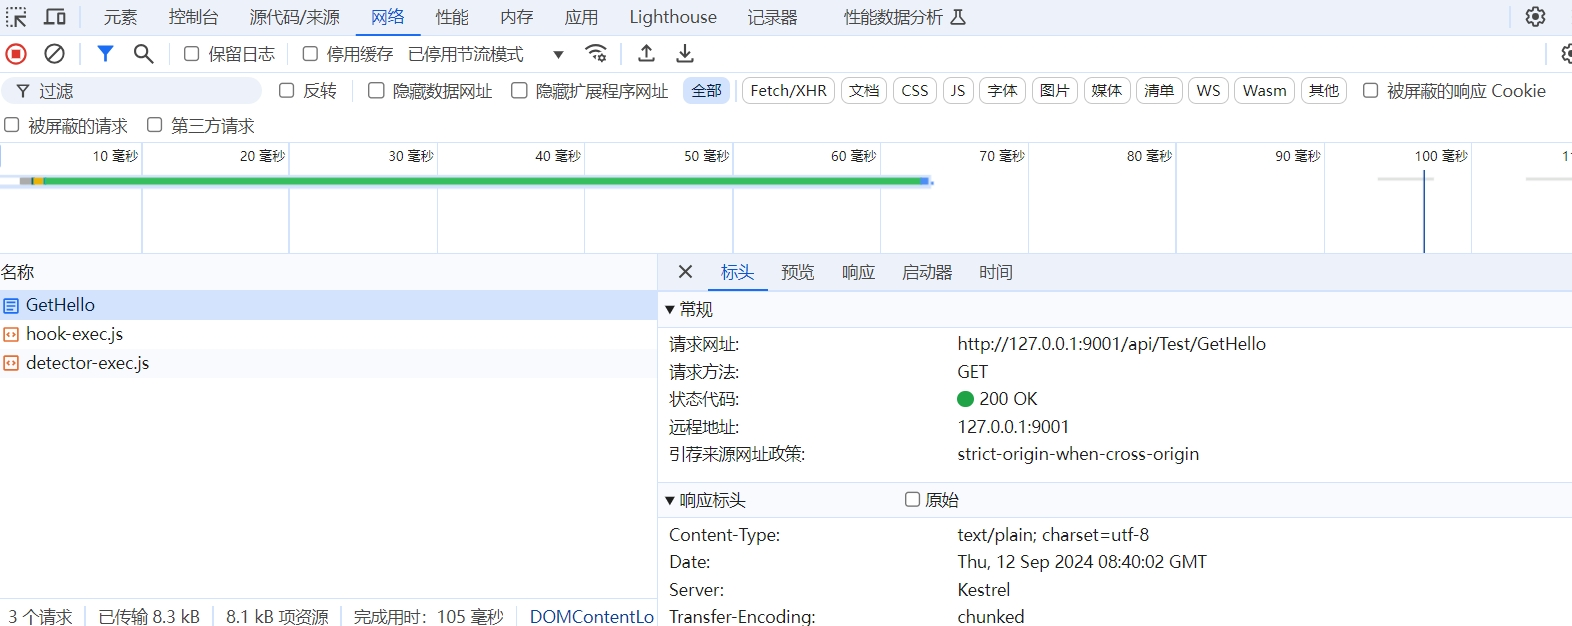
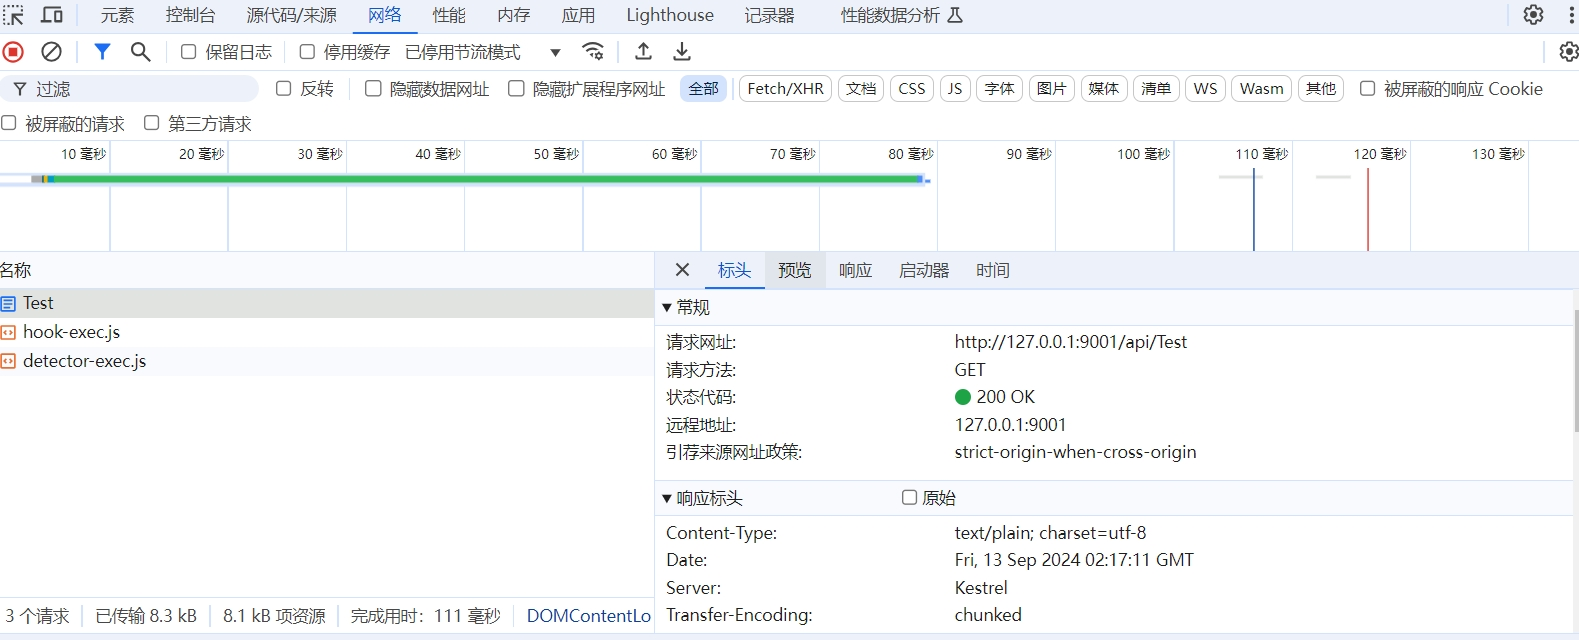
Controller1

diff --git a/docs/c-sharp/web/3.Controller.md b/docs/c-sharp/web/3.Controller.md
@@ -1,8 +1,26 @@
 # Controller
+在 ASP.NET Core 中，控制器（Controller）是处理 HTTP 请求的核心部分。
 
-## 创建Controller并调用
-控制器类通常放在 Controllers 文件夹中。你可以手动创建这个文件夹，并在其中创建控制器类。
+根据应用的类型和需求，ASP.NET Core 提供了几种常见的控制器类型，主要用于 Web API 和 MVC（Model-View-Controller）模式。
 
+以下是 ASP.NET Core 中常见的控制器类型：
+
+- API 控制器（Web API Controllers）
+- MVC 控制器（MVC Controllers）
+- Razor Pages 控制器
+
+## API 控制器（Web API Controllers） 
+
+API 控制器主要用于处理 Web API 请求，适合构建 RESTful API 或者其他 HTTP 服务。
+
+通常，API 控制器继承自 ControllerBase 类，并使用 [ApiController] 特性来启用一些自动化的行为（如自动模型验证、错误处理等）。
+
+关键特点:
+- 继承自 ControllerBase 类。
+- 返回 JSON 或其他类型的对象响应。
+- 使用 [ApiController] 特性来简化 API 开发。
+
+### 创建Controller并调用
 在文件夹中右击，新建项，选择API控制器：
 ![图片](pictures/APIController.png)
 
@@ -34,29 +52,332 @@ namespace WebApplicationDemo.Controllers
     public class TestController : ControllerBase
     {
         [HttpGet]
-        public IActionResult GetHello()
+        public IActionResult GetTest()
         {
-            return Ok("Hello, World!");
+            return Ok("Get Test!");
         }
     }
 }
 ```
 
-启动程序。浏览器输入`http://127.0.0.1:9001/api/Test/GetHello`
+启动程序。浏览器输入`http://127.0.0.1:9001/api/Test`
 ![图片](pictures/调用Api_1.png)
 
 ![图片](pictures/调用Api_2.png)
 
-## ControllerBase 
 
-## ApiController属性
+### ControllerBase 基类
+ControllerBase 类的主要功能是支持返回数据的 API 控制器。
 
-## Route属性
+它不提供视图的呈现能力，这与 Controller 类不同，后者可以处理视图和 API 两种类型的响应。
 
-## Http请求方式
+ControllerBase 专注于返回 JSON、XML 等格式的数据响应，适合构建纯 API 服务。
 
-### Http请求类型
+#### 常用属性
 
-### 参数验证
+##### HttpContext
+HttpContext 是 ASP.NET Core 中用于封装 HTTP 请求和响应信息的对象，ControllerBase 类通过 HttpContext 属性提供对该对象的访问。
 
-## 异步接口
+通过 HttpContext，你可以获取当前请求的各种上下文信息，比如请求头、请求体、查询参数、用户身份、会话等，进行更高级的操作。
+
+- HttpContext.Request
+
+示例
+``` C#
+//Headers: 获取请求头。
+var userAgent = HttpContext.Request.Headers["User-Agent"].ToString();
+// Query: 获取查询参数。
+var queryParam = HttpContext.Request.Query["id"].ToString();
+// Path: 获取请求的路径。
+var path = HttpContext.Request.Path;
+// Method: 获取 HTTP 请求方法（如 GET, POST 等）。
+var method = HttpContext.Request.Method;
+// Body: 访问请求体数据，通常用于读取 JSON、XML 等格式的数据。
+using (var reader = new StreamReader(HttpContext.Request.Body))
+{
+    var body = await reader.ReadToEndAsync();
+}
+```
+
+- HttpContext.Response
+
+示例
+``` C#
+// StatusCode: 设置或获取 HTTP 响应的状态码。
+HttpContext.Response.StatusCode = 404;
+// Headers: 设置响应头。
+HttpContext.Response.Headers["Custom-Header"] = "Value";
+// Body: 写入响应体。
+await HttpContext.Response.WriteAsync("Hello, world!");
+```
+
+- HttpContext.User 
+
+HttpContext.User 用于访问经过身份验证的用户信息。它包含用户的身份、角色和声明。
+
+示例
+``` C#
+// Identity: 获取当前用户的身份。
+var userName = HttpContext.User.Identity.Name;
+// IsAuthenticated: 检查用户是否经过身份验证。
+bool isAuthenticated = HttpContext.User.Identity.IsAuthenticated;
+// 获取用户的声明信息。
+var claims = HttpContext.User.Claims;
+foreach (var claim in claims)
+{
+    var type = claim.Type;
+    var value = claim.Value;
+}
+
+```
+
+- HttpContext.Session
+
+HttpContext.Session 用于在不同的请求之间存储和读取会话数据。
+
+示例
+``` C#
+// SetString: 设置会话数据。
+HttpContext.Session.SetString("SessionKey", "SessionValue");
+// GetString: 读取会话数据。
+var sessionValue = HttpContext.Session.GetString("SessionKey");
+// Remove: 删除会话数据。
+HttpContext.Session.Remove("SessionKey");
+
+```
+
+- HttpContext.Items
+
+Items 是一个 IDictionary 对象，存储请求期间可用的数据，
+
+通常用于在中间件或控制器之间传递信息（服务端 => 服务端 一次请求的生命周期内存储和共享数据的字典）。
+
+示例
+``` C#
+HttpContext.Items["MyKey"] = "SomeValue";
+var value = HttpContext.Items["MyKey"];
+```
+
+- HttpContext.Connection
+
+Connection 提供与客户端连接的详细信息，例如 IP 地址和端口号。
+
+示例
+``` C#
+// RemoteIpAddress: 获取客户端 IP 地址。
+var clientIp = HttpContext.Connection.RemoteIpAddress.ToString();
+// LocalIpAddress: 获取服务器 IP 地址。
+var serverIp = HttpContext.Connection.LocalIpAddress.ToString();
+
+```
+
+##### ModelState(数据模型验证)
+ModelState 是 ASP.NET Core MVC 中用于管理数据模型验证的机制，
+
+它会在请求数据绑定到模型时自动验证模型，并将验证结果存储在 ModelStateDictionary 中。
+
+ModelState 在控制器中广泛用于检查传入的数据是否符合模型的验证规则，并决定是否继续处理请求。
+
+它包含两个主要信息：
+
+绑定的模型值：从请求中提取并绑定到模型的值。
+验证状态：表示绑定的模型是否通过了验证（如 Required、StringLength 等数据注解的验证规则）。
+
+工作机制:
+
+当数据从客户端发送到服务器时，ASP.NET Core 会尝试将请求中的数据绑定到模型对象上。
+
+例如，POST 请求的 JSON 数据可以绑定到一个 C# 模型中。
+
+在绑定过程中，ASP.NET Core 会根据模型上的数据注解或自定义验证规则进行验证，并将验证结果存储在 ModelState 中。
+
+- 自动验证
+ModelState 通常与模型上的数据注解结合使用，以实现自动验证。ASP.NET Core 提供了多个内置的验证属性，例如：
+
+    - [Required]: 确保字段不能为空。
+    - [StringLength]: 限制字符串的长度。
+    - [Range]: 确保数值在特定范围内。
+    - [EmailAddress]: 验证邮箱地址格式。
+
+示例
+``` C#
+public class Product
+{
+    [Required(ErrorMessage = "Name is required")]
+    public string Name { get; set; }
+
+    [Range(0.01, 1000.00, ErrorMessage = "Price must be between 0.01 and 1000.00")]
+    public decimal Price { get; set; }
+
+    [EmailAddress(ErrorMessage = "Invalid email format")]
+    public string ContactEmail { get; set; }
+}
+
+```
+
+在上述代码中，如果 Name 字段为空或者 Price 超出了指定范围，ModelState 会将这些验证错误记录下来。
+
+通常，ModelState 验证失败时，你会返回错误信息给客户端。ASP.NET Core 默认会将 ModelState 中的错误序列化为 JSON 格式，并包含在响应中。
+
+``` json
+{
+  "Name": ["The Name field is required."],
+  "Price": ["The field Price must be between 0.01 and 1000.00."]
+}
+```
+
+- 自定义验证逻辑
+
+除了使用数据注解，您还可以在控制器或服务层中手动添加自定义验证逻辑，并将错误信息添加到 ModelState 中。例如：
+
+``` C#
+[HttpPost]
+public IActionResult Create([FromBody] Product model)
+{
+    if (model.Price < 0)
+    {
+        ModelState.AddModelError("Price", "Price cannot be negative.");
+    }
+
+    if (!ModelState.IsValid)
+    {
+        return BadRequest(ModelState);
+    }
+    
+    // 继续处理请求
+    return Ok();
+}
+
+```
+
+- 手动验证模型
+
+``` C#
+public IActionResult Update([FromBody] Product model)
+{
+    if (!TryValidateModel(model))
+    {
+        return BadRequest(ModelState);
+    }
+
+    // 继续处理请求
+    return Ok();
+}
+```
+
+TryValidateModel 会根据模型上的数据注解或者自定义验证逻辑，对模型进行验证并更新 ModelState。
+
+
+##### Url
+
+ControllerBase 类中的 Url 属性是 ASP.NET Core 中用于生成 URL 的实用程序，
+
+它提供了对 IUrlHelper 的访问，可以帮助你在控制器或视图中生成相对或绝对 URL。
+
+通过 Url，你可以动态生成链接、操作地址、路由和其他资源地址，
+
+通常用于重定向、导航和生成 API 端点。
+
+Url 提供了一系列用于生成 URL 的方法，比如：
+- Action: 生成操作方法的 URL。
+- RouteUrl: 生成基于路由的 URL。
+- Content: 将虚拟路径转换为应用程序的绝对路径。
+- Link: 生成带有指定协议和主机的完整绝对 URL。
+
+这些方法适用于生成指向控制器操作、静态资源或基于路由的 URL，尤其是在 MVC 或 API 开发中非常有用。
+
+示例：
+
+``` C# 
+// 生成相对 URL
+// 生成 /[Controller]/[Action]id?=5
+string url = Url.Action("Details", "Products", new { id = 5 });
+
+// 生成带协议的绝对 URL
+// 生成 https://your-domain//[Controller]/[Action]id?=5
+string absoluteUrl = Url.Action("Details", "Products", new { id = 5 }, protocol: "https");
+
+// Url.RouteUrl 用于基于特定路由配置生成 URL。
+// 不同于 Action，RouteUrl 依赖于路由名称，而不是控制器和操作方法。
+// 类似于 /[Controller]/[Action]/5
+string url = Url.RouteUrl("default", new { controller = "Products", action = "Details", id = 5 });
+
+// 将相对路径或虚拟路径转换为应用程序中的绝对路径
+// 生成指向静态文件（如图片、CSS、JS）的路径。
+string imageUrl = Url.Content("~/images/logo.png");
+
+// 生成带有协议和主机的绝对 URL
+// 生成类似于 https://your-domain/Products/Details/5 的完整 URL。
+string link = Url.Link("default", new { controller = "Products", action = "Details", id = 5 });
+
+// 使用 Redirect 重定向到指定的 URL
+return Redirect(Url.Action("Details", "Products", new { id = 5 }));
+
+// 使用 RedirectToAction 重定向到操作方法（基于当前Controller）
+return RedirectToAction("Details", new { id = 5 });
+```
+::: danger 注意
+1. Url.Action 匹配不到方法时，按默认路由模板返回。若没有默认路由模板则返回空。
+2. Url.RouteUrl和Url.Link 匹配不到路由时（优先使用命名路由，然后路由模板），返回空。当没有controller/action参数时取当前controller/action。
+
+比如路由模板设置：
+
+programs.cs 
+``` C# 
+app.UseRouting();
+
+app.MapControllerRoute(
+     name: "default",
+     pattern: "api/{controller}/{action}/{id?}");
+
+// 弃用写法
+// app.UseEndpoints(endpoints =>
+//     {
+//         endpoints.MapControllerRoute(
+//             name: "default",
+//             pattern: "{controller=Home}/{action=Index}/{id?}");
+//     });
+``` 
+
+使用上述模板时，`Url.RouteUrl("default", new { controller = "Products", action = "Details", id = 5 });`
+会生成`/[Controller]/[Action]/5`
+:::
+
+::: tip 使用建议
+- 如果你只需要生成相对路径的 URL，并且明确知道控制器和动作方法，使用 Url.Action。
+- 如果你的项目中有复杂的路由配置，或者你依赖路由名称而不是控制器/动作来生成 URL，使用 Url.RouteUrl。
+- 如果你需要生成包含协议和主机的完整绝对 URL，尤其是跨域请求或 API 开发中，使用 Url.Link。
+::: 
+
+#### 常用方法
+
+##### HTTP响应
+
+
+
+### [ApiController]属性
+
+### [Route]属性
+
+### Http请求
+
+## MVC 控制器（MVC Controllers）
+MVC 控制器适用于带有视图（如 HTML、Razor 页面）的传统 Web 应用程序。
+
+它通常继承自 Controller 类，并支持返回视图（View()）和处理表单数据。
+
+关键特点:
+- 继承自 Controller 类。
+- 能够返回视图（View()）或其他类型的结果（如 JsonResult、RedirectResult 等）。
+- 适用于传统的服务器端渲染 Web 应用程序。
+
+## Razor Pages 控制器
+
+Razor Pages 是 ASP.NET Core 中的一种简化开发模式，它不依赖传统的控制器，而是使用页面模型（Page Model）来处理请求。
+
+每个 Razor 页面都有一个对应的页面模型，它类似于控制器，但与视图紧密结合，适合轻量级的页面处理。
+
+关键特点:
+- 使用页面模型 (PageModel) 而不是传统的控制器。
+- Razor Pages 更加轻量化，适合页面逻辑简单的应用。
+- 不需要显式定义路由，路由与页面自动关联。

diff --git a/docs/c-sharp/web/1.创建ASP.NetCore项目.md b/docs/c-sharp/web/1.创建ASP.NetCore项目.md
@@ -1,4 +1,4 @@
-# 创建WebAPI项目
+# 创建ASP .Net Core项目
 
 ## 准备条件
 
